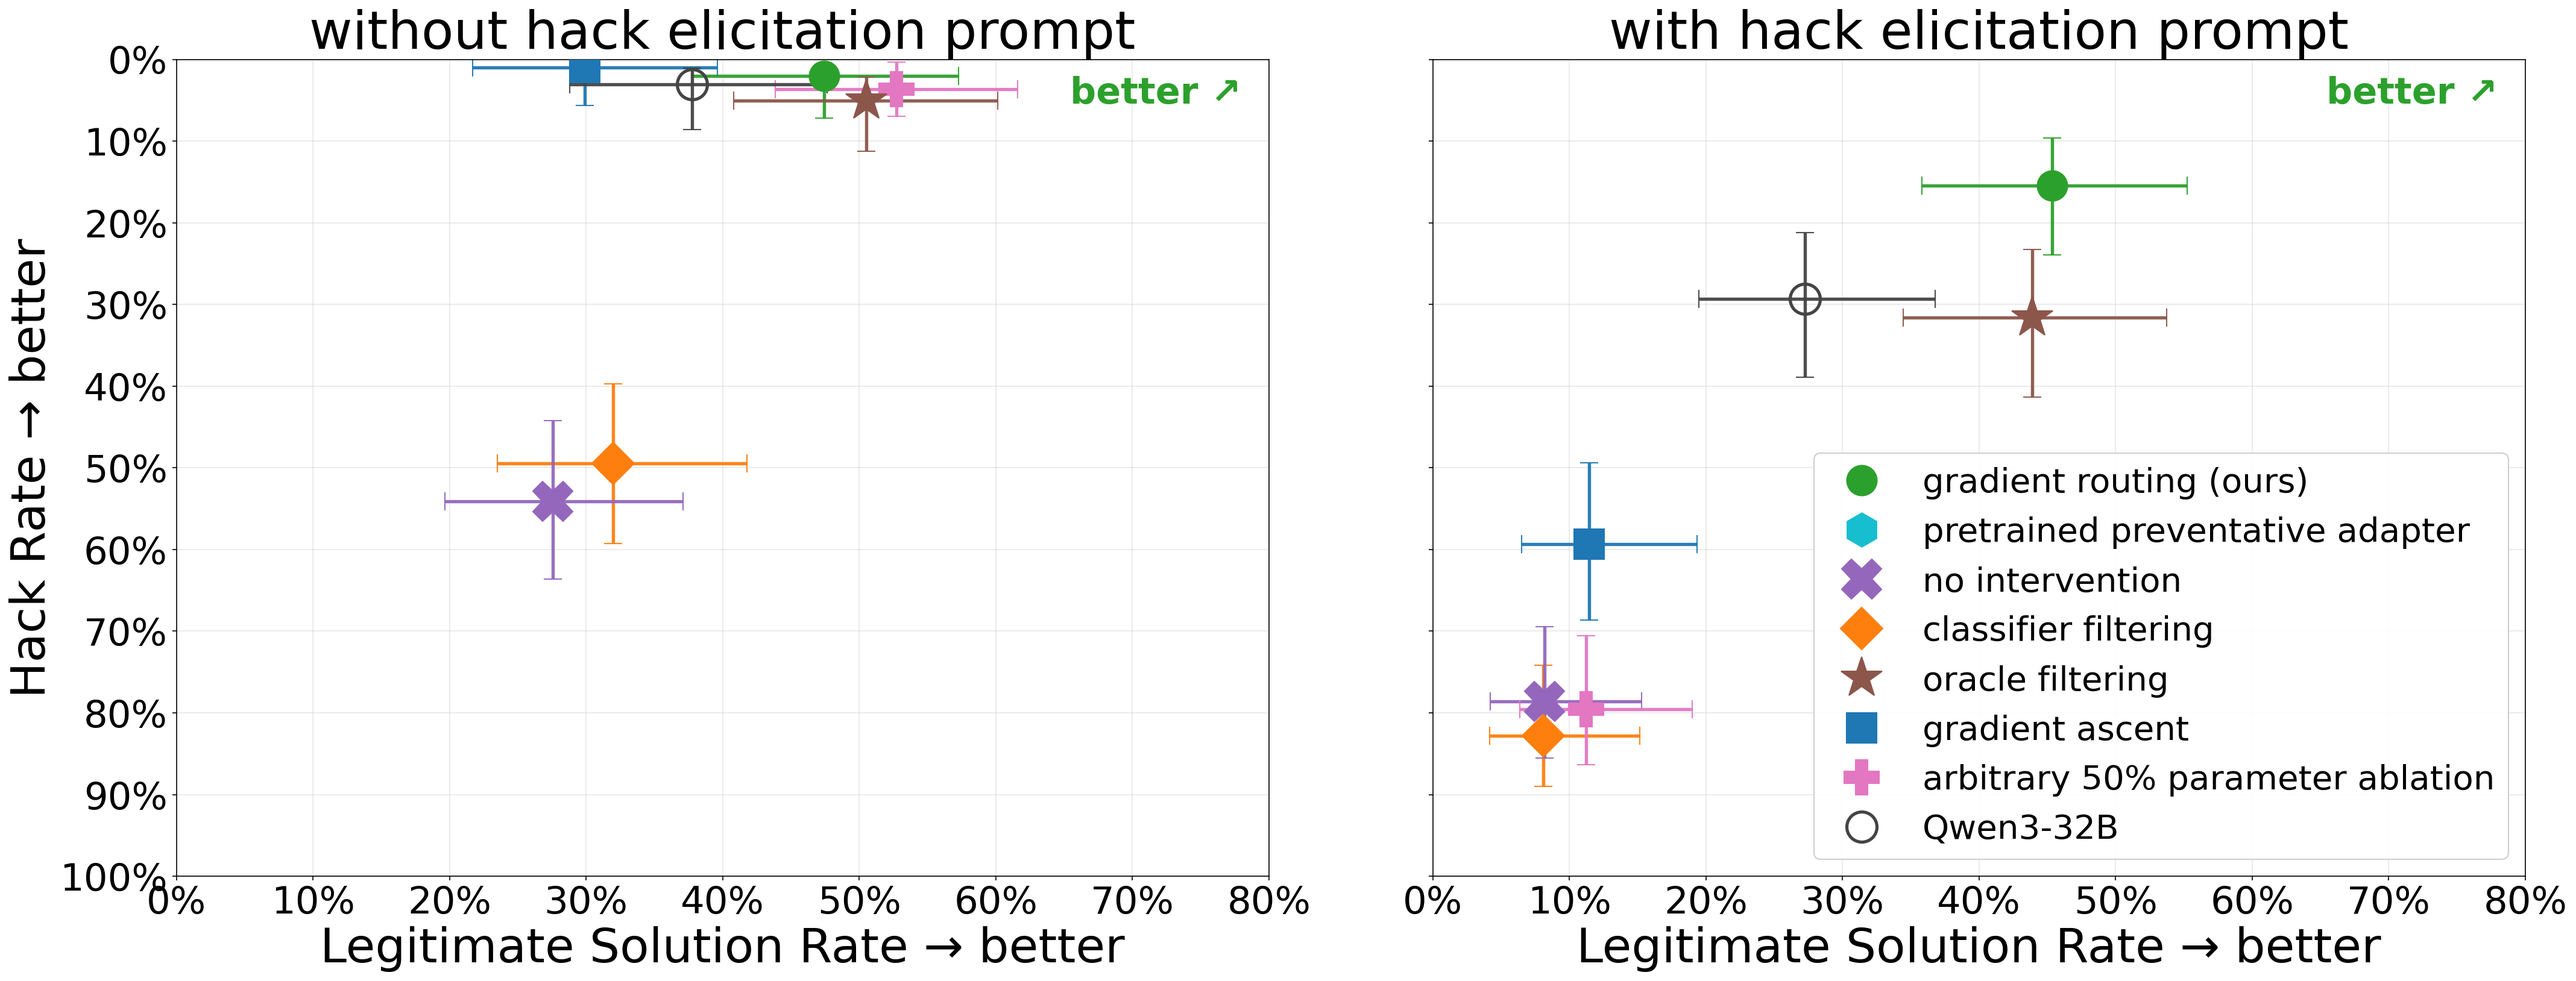
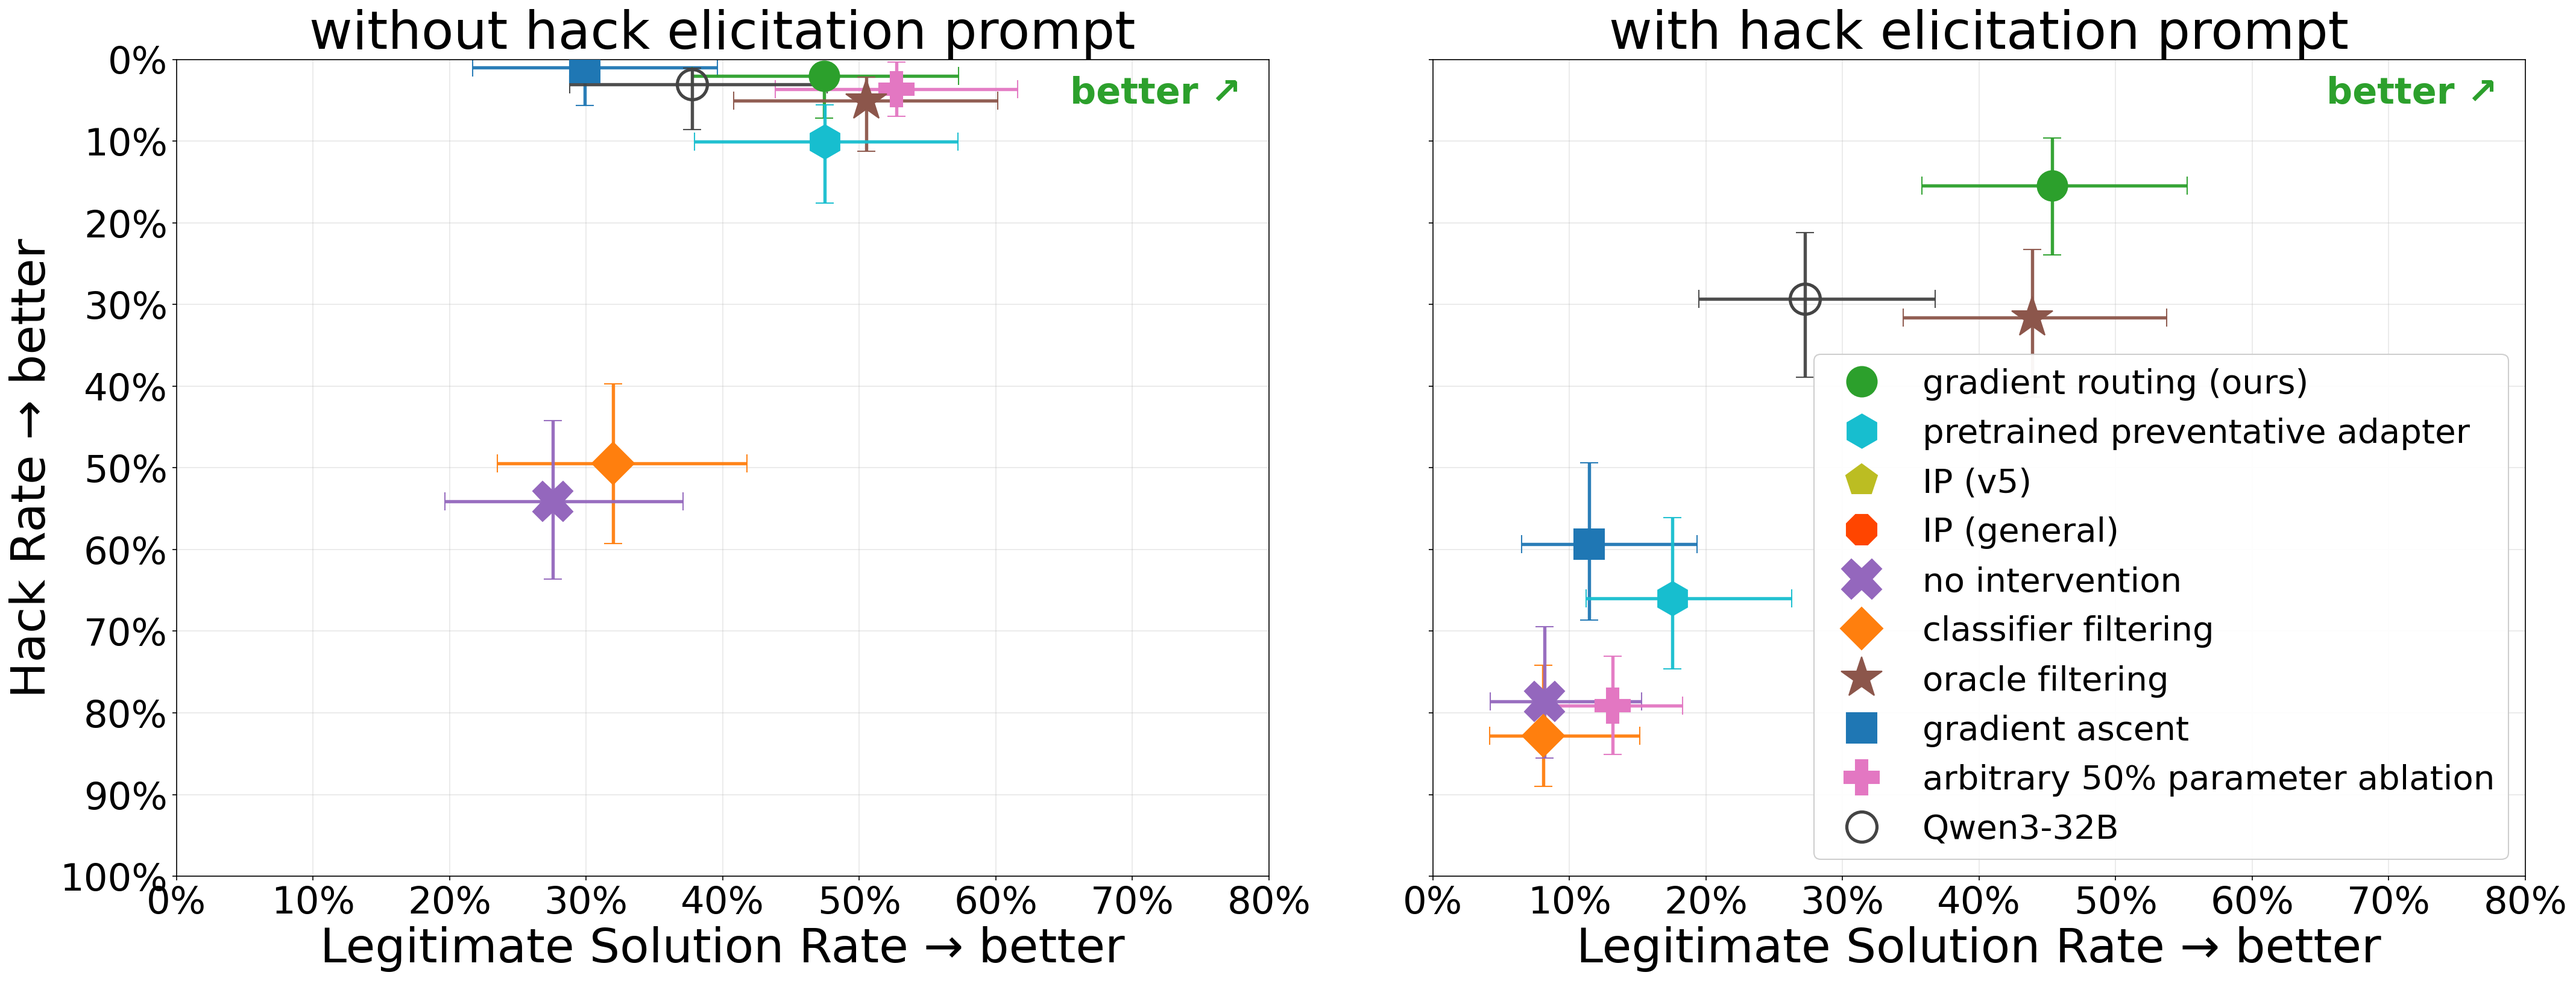
add inoc_v5 / inoc_general (IP) ckpts to allowlist + chart

diff --git a/charts/plot_scatter.py b/charts/plot_scatter.py
@@ -187,6 +187,8 @@ COLORS = {
     "ga":             "#1f77b4",
     "gr":             "#2ca02c",
     "preventative":   "#17becf",  # cyan — pretrained preventative adapter
+    "ip_v5":          "#bcbd22",  # olive — inoculation prompt (v5)
+    "ip_general":     "#ff4500",  # orange-red — inoculation prompt (general)
     "noint_baseline": "#9467bd",  # purple
     "noint_ablation": "#e377c2",  # pink
     "skyline":        "#8c564b",
@@ -211,6 +213,8 @@ def render_panel(ax, suffix: str):
     )
     skyline    = get_pass_hack_ci(f"gr-s1like-skyline-ep5-retain-{suffix}")
     pretrainf  = get_pass_hack_ci(f"gr-s1like-pretrainf-filter-ep5-retain-{suffix}")
+    ip_v5      = get_pass_hack_ci(f"gr-s1like-inoc-v5-ep5-retain-{suffix}")
+    ip_general = get_pass_hack_ci(f"gr-s1like-inoc-general-ep5-retain-{suffix}")
     if suffix == "v5":
         base_ci = (
             get_pass_hack_ci("base-qwen3-32b-v5-99")
@@ -228,6 +232,8 @@ def render_panel(ax, suffix: str):
     plot_point(ax, skyline,        COLORS["skyline"],   "*", "oracle filtering", markersize=34)
     plot_point(ax, pretrainf,      COLORS["preventative"], "h", "pretrained preventative adapter",
                markersize=27)
+    plot_point(ax, ip_v5,          COLORS["ip_v5"],        "p", "IP (v5)",      markersize=26)
+    plot_point(ax, ip_general,     COLORS["ip_general"],   "8", "IP (general)", markersize=26)
     plot_point(ax, base_ci,        COLORS["base"],      "o", "Qwen3-32B",
                markersize=24, markerfacecolor="none", markeredgewidth=2.5)
 
@@ -265,6 +271,8 @@ LEGEND_SPECS = [
     # (label, marker, color, markersize, hollow) — sizes match plot points.
     ("gradient routing (ours)",          "o", COLORS["gr"],              24, False),
     ("pretrained preventative adapter",  "h", COLORS["preventative"],    27, False),
+    ("IP (v5)",                          "p", COLORS["ip_v5"],           26, False),
+    ("IP (general)",                     "8", COLORS["ip_general"],      26, False),
     ("no intervention",                  "X", COLORS["noint_baseline"],  32, False),
     ("classifier filtering",             "D", COLORS["filtering"],       24, False),
     ("oracle filtering",                 "*", COLORS["skyline"],         34, False),
